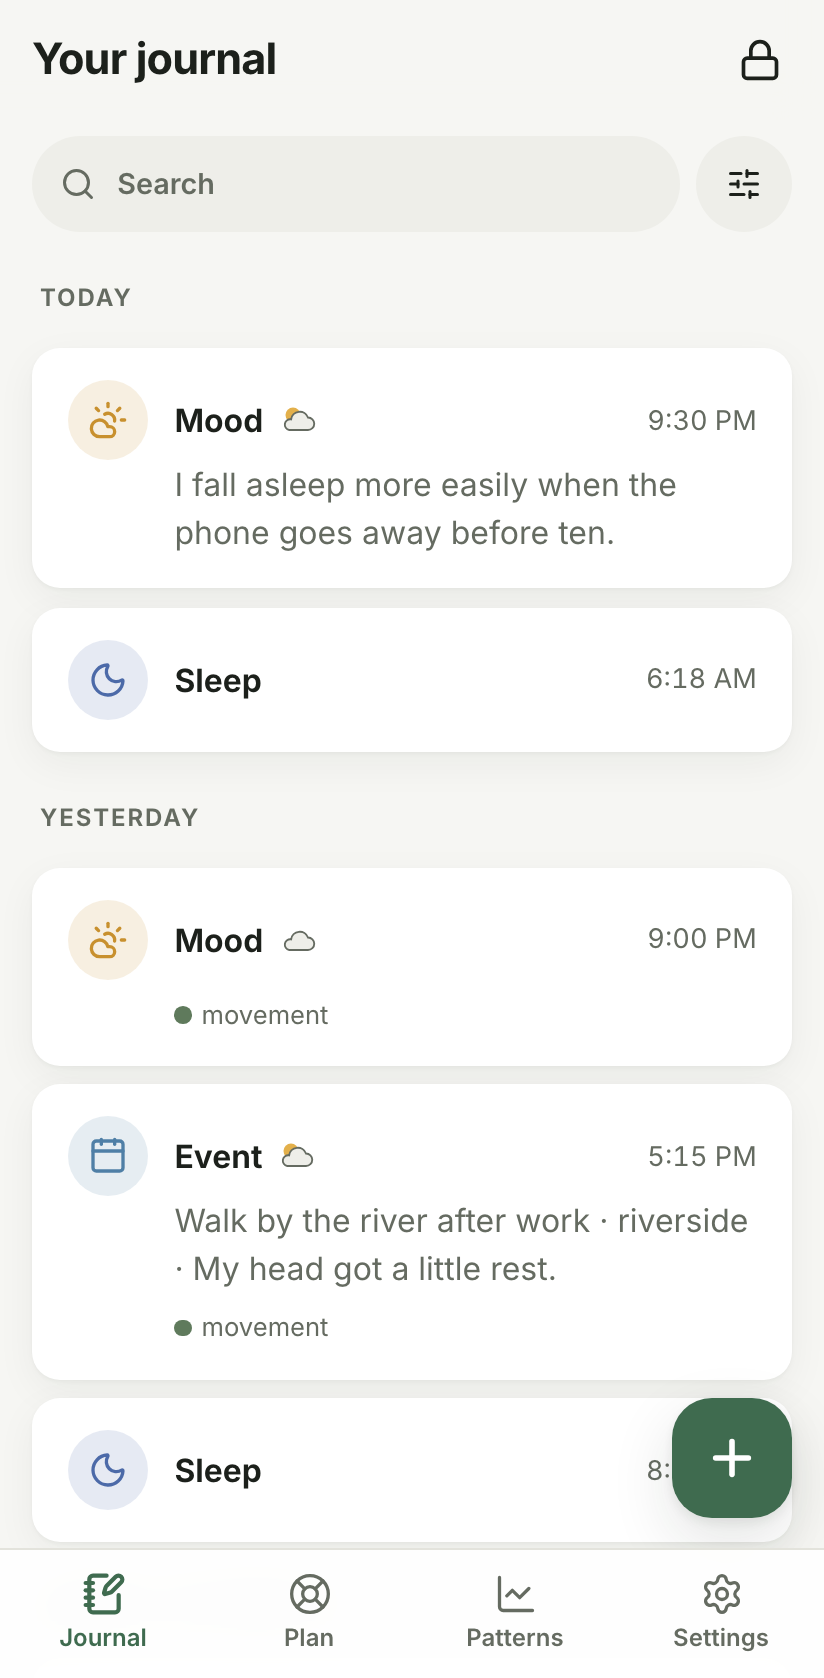
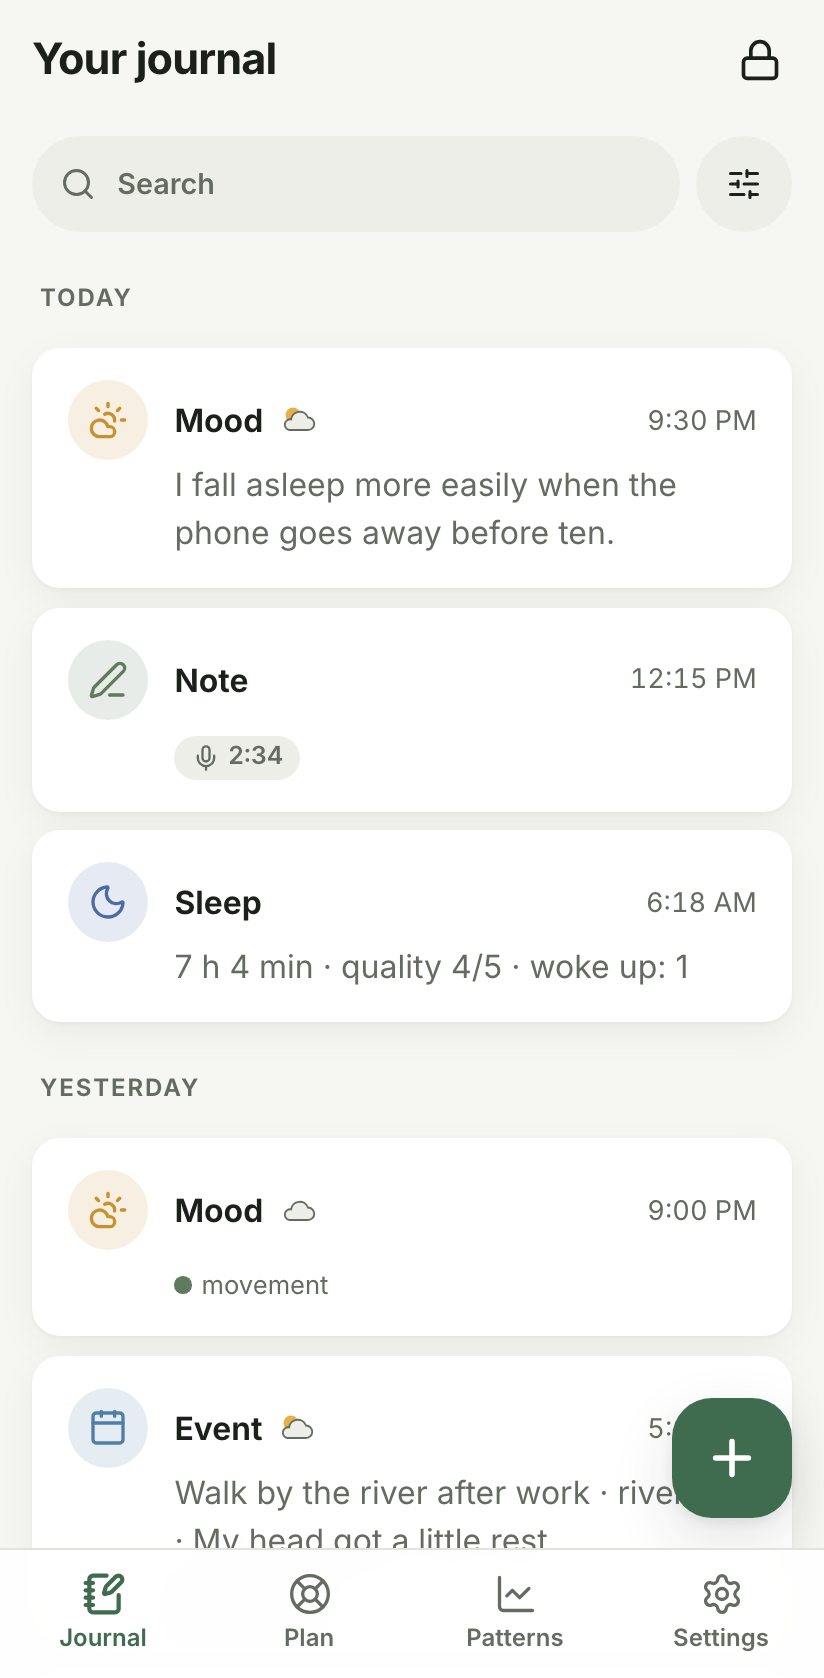
Website: voice notes to text, hidden content, settings paths; new screenshots

diff --git a/site/index.html b/site/index.html
@@ -129,14 +129,44 @@
 						</div>
 					</dl>
 					<p>
-						Czasem łatwiej coś powiedzieć niż napisać. Do każdego wpisu możesz nagrać notatkę
-						głosową, do pięciu minut. Nagrywasz w aplikacji, a nagranie jest szyfrowane jak reszta
-						dziennika.
+						Nowe wpisy pokazują na liście tylko rodzaj i godzinę, dopóki ich nie otworzysz. Gdyby
+						ktoś zerknął Ci przez ramię, nie przeczyta, co piszesz.
 					</p>
 				</div>
 			</section>
 
-			<section class="wrap feature flip" aria-labelledby="wzorce">
+			<section class="wrap feature flip" aria-labelledby="glos">
+				<figure class="shot phone">
+					<picture><source srcset="img/pl-voice-dark.png" media="(prefers-color-scheme: dark)" /><img
+						src="img/pl-voice.png"
+						width="824"
+						height="1678"
+						loading="lazy"
+						alt="Notatka głosowa trwająca 2:34, a pod nią rozpoznany tekst do przeczytania i poprawienia."
+					/></picture>
+				</figure>
+				<div class="text">
+					<p class="label">Notatki głosowe</p>
+					<h2 id="glos">Czasem łatwiej powiedzieć <em>niż napisać.</em></h2>
+					<p>
+						Do każdego wpisu nagrasz do pięciu minut. Nagrywasz w aplikacji, a nagranie jest
+						szyfrowane jak reszta dziennika i nigdy nie trafia do osobnego pliku na urządzeniu.
+					</p>
+					<p>
+						Jeśli chcesz, Mossbook zamieni nagranie na tekst, który przeczytasz, poprawisz i potem
+						znajdziesz w wyszukiwarce. Rozpoznawanie działa na Twoim urządzeniu, po polsku,
+						ukraińsku, angielsku i w innych językach europejskich. Nagrania nigdzie nie są
+						wysyłane.
+					</p>
+					<p class="aside">
+						Domyślnie wyłączone. Żeby włączyć, pobierasz w przeglądarce model rozpoznawania mowy
+						(487 MB) i wskazujesz plik w Ustawieniach → Notatki głosowe. Model to NVIDIA Parakeet
+						(licencja CC BY 4.0) i potrzebuje około 1,5 GB pamięci, gdy pracuje.
+					</p>
+				</div>
+			</section>
+
+			<section class="wrap feature" aria-labelledby="wzorce">
 				<figure class="shot phone">
 					<picture><source srcset="img/pl-patterns-dark.png" media="(prefers-color-scheme: dark)" /><img
 						src="img/pl-patterns.png"
@@ -164,7 +194,7 @@
 				</div>
 			</section>
 
-			<section class="wrap feature" aria-labelledby="trudna-chwila">
+			<section class="wrap feature flip" aria-labelledby="trudna-chwila">
 				<figure class="shot phone">
 					<picture><source srcset="img/pl-lock-dark.png" media="(prefers-color-scheme: dark)" /><img
 						src="img/pl-lock.png"
@@ -228,7 +258,7 @@
 						<li>Zainstaluj Syncthing na telefonie i komputerze i udostępnij między nimi jeden folder.</li>
 						<li>
 							Na urządzeniu, którego hasło chcesz zachować, wybierz ten folder w Ustawieniach →
-							Synchronizacja.
+							Kopie i synchronizacja.
 						</li>
 						<li>
 							Na drugim urządzeniu wybierz ten sam folder i dołącz do dziennika jego hasłem. Wpisy
@@ -255,7 +285,15 @@
 								odrzuca biblioteki, które mogłyby go dodać.<!--android--> Na Androidzie aplikacja nie ma nawet
 								uprawnienia do internetu, a każde wydanie jest pod tym kątem sprawdzane.<!--/android-->
 								Synchronizację między Twoimi urządzeniami robi osobny program, który wybierasz sam;
-								Mossbook tylko zapisuje i czyta zaszyfrowany plik w folderze.
+								Mossbook tylko zapisuje i czyta zaszyfrowany plik w folderze. Model do zamiany
+								nagrań na tekst pobiera Twoja przeglądarka, nie aplikacja.
+							</p>
+							<p>
+								Jeden wyjątek dotyczy budowania aplikacji, nie jej działania. Silnik rozpoznawania
+								mowy to gotowe biblioteki projektu sherpa-onnx, a ich narzędzie budujące potrafi
+								pobrać je z sieci. Nie pozwalamy mu na to: dostaje pliki sprawdzone po sumach
+								kontrolnych zapisanych w repozytorium. Do aplikacji nie trafia z tego żaden kod
+								sieciowy.
 							</p>
 						</li>
 						<li>
@@ -489,6 +527,16 @@
 							Tylko wtedy, gdy sam zaczniesz nagrywać notatkę głosową, i tylko do jej końca. O
 							dostęp system zapyta przy pierwszym nagraniu. Nagranie zostaje w dzienniku,
 							zaszyfrowane, i nigdy nie trafia do osobnego pliku na urządzeniu.
+						</p>
+					</details>
+					<details>
+						<summary>Czy zamiana nagrań na tekst wysyła je gdzieś?</summary>
+						<p>
+							Nie. Rozpoznawanie mowy działa na Twoim urządzeniu (model NVIDIA Parakeet, licencja CC
+							BY 4.0). Model pobierasz sam w przeglądarce, a Mossbook przyjmuje tylko dokładnie ten
+							plik, sprawdzony po sumie kontrolnej. Tekst jest propozycją: czytasz go i poprawiasz,
+							zanim zapiszesz wpis. Potrzeba około 1,5 GB pamięci, więc na telefonach z mniej niż
+							6 GB może się nie udać.
 						</p>
 					</details>
 					<details>

diff --git a/site/en/index.html b/site/en/index.html
@@ -129,14 +129,44 @@
 						</div>
 					</dl>
 					<p>
-						Sometimes saying it is easier than writing it. Any entry can have a voice note of up to
-						five minutes. You record it in the app, and it is encrypted like the rest of the
-						journal.
+						New entries show only their type and time in the list until you open them. If someone
+						glances over your shoulder, they will not read what you wrote.
 					</p>
 				</div>
 			</section>
 
-			<section class="wrap feature flip" aria-labelledby="patterns">
+			<section class="wrap feature flip" aria-labelledby="voice">
+				<figure class="shot phone">
+					<picture><source srcset="../img/en-voice-dark.png" media="(prefers-color-scheme: dark)" /><img
+						src="../img/en-voice.png"
+						width="824"
+						height="1678"
+						loading="lazy"
+						alt="A voice note of 2:34 with the recognised text below it, ready to read and correct."
+					/></picture>
+				</figure>
+				<div class="text">
+					<p class="label">Voice notes</p>
+					<h2 id="voice">Sometimes saying it <em>is easier than writing it.</em></h2>
+					<p>
+						Any entry can have up to five minutes of recording. You record it in the app, it is
+						encrypted like the rest of the journal, and it is never saved as a separate file on
+						the device.
+					</p>
+					<p>
+						If you like, Mossbook turns the recording into text that you read, correct and later
+						find with search. Recognition runs on your device, in English, Polish, Ukrainian and
+						other European languages. Recordings are not sent anywhere.
+					</p>
+					<p class="aside">
+						Off by default. To turn it on, download the speech recognition model in your browser
+						(487 MB) and pick the file in Settings → Voice notes. The model is NVIDIA Parakeet
+						(CC BY 4.0 licence) and needs about 1.5 GB of memory while it works.
+					</p>
+				</div>
+			</section>
+
+			<section class="wrap feature" aria-labelledby="patterns">
 				<figure class="shot phone">
 					<picture><source srcset="../img/en-patterns-dark.png" media="(prefers-color-scheme: dark)" /><img
 						src="../img/en-patterns.png"
@@ -162,7 +192,7 @@
 				</div>
 			</section>
 
-			<section class="wrap feature" aria-labelledby="hard-moment">
+			<section class="wrap feature flip" aria-labelledby="hard-moment">
 				<figure class="shot phone">
 					<picture><source srcset="../img/en-lock-dark.png" media="(prefers-color-scheme: dark)" /><img
 						src="../img/en-lock.png"
@@ -226,7 +256,7 @@
 					<ol class="steps">
 						<li>Install Syncthing on your phone and computer and share one folder between them.</li>
 						<li>
-							On the device whose password you want to keep, choose that folder in Settings → Sync.
+							On the device whose password you want to keep, choose that folder in Settings → Backups and sync.
 						</li>
 						<li>
 							On the other device, choose the same folder and join the journal with its password.
@@ -254,7 +284,14 @@
 								libraries that could add it.<!--android--> On Android the app does not even hold the permission
 								to go online, and every release is checked for it.<!--/android-->
 								Syncing between your devices is done by a separate program you choose; Mossbook
-								only writes and reads an encrypted file in a folder.
+								only writes and reads an encrypted file in a folder. The model for turning
+								recordings into text is downloaded by your browser, not by the app.
+							</p>
+							<p>
+								One exception concerns building the app, not running it. The speech recognition
+								engine is a set of prebuilt libraries from the sherpa-onnx project, and their
+								build tool can download them. We do not let it: it is given files checked against
+								checksums kept in the repository. No networking code ends up in the app.
 							</p>
 						</li>
 						<li>
@@ -487,6 +524,16 @@
 							Only when you start recording a voice note, and only until you stop. The system asks
 							for access on the first recording. The recording stays in the journal, encrypted, and
 							is never saved as a separate file on the device.
+						</p>
+					</details>
+					<details>
+						<summary>Does turning recordings into text send them anywhere?</summary>
+						<p>
+							No. Speech recognition runs on your device (NVIDIA's Parakeet model, CC BY 4.0
+							licence). You download the model yourself in your browser, and Mossbook accepts only
+							that exact file, checked by its checksum. The text is a suggestion: you read and
+							correct it before saving the entry. It needs about 1.5 GB of memory, so on phones with
+							less than 6 GB it may fail.
 						</p>
 					</details>
 					<details>

diff --git a/app/site-shots/shots.spec.ts b/app/site-shots/shots.spec.ts
@@ -25,6 +25,8 @@ const TEXT = {
 			['Spacer nad rzeką po pracy', 'bulwary', 'Głowa trochę odpoczęła.'],
 			['Pierwszy trening od miesiąca', 'basen', 'Zmęczenie, ale dobre.']
 		],
+		voice:
+			'Rano ciężko było wstać, ale po spacerze z psem zrobiło się lżej. Zadzwoniłam do siostry i umówiłyśmy się na sobotę. Wieczorem chcę spróbować zasnąć przed jedenastą.',
 		notes: [
 			'Zasypiam łatwiej, kiedy odkładam telefon przed dziesiątą.',
 			'Dzień bez planu. Trochę czytania i długi obiad.',
@@ -41,6 +43,8 @@ const TEXT = {
 			['Walk by the river after work', 'riverside', 'My head got a little rest.'],
 			['First swim in a month', 'pool', 'Tired, the good kind.']
 		],
+		voice:
+			'It was hard to get up this morning, but the walk with the dog made it lighter. I called my sister and we made plans for Saturday. Tonight I want to try to fall asleep before eleven.',
 		notes: [
 			'I fall asleep more easily when the phone goes away before ten.',
 			'A day with no plans. Some reading and a long lunch.',
@@ -147,6 +151,17 @@ function journal(lang: Lang) {
 			});
 		}
 	}
+	// A voice note turned into text (E-19), opened for the website's screenshot.
+	add(at(0, 12), {
+		id: 'site-voice',
+		kind: 'note',
+		voice: {
+			id: 'site-voice-recording',
+			duration_ms: 154_000,
+			mime: 'audio/ogg; codecs=opus',
+			transcript: text.voice
+		}
+	});
 	return { tags, entries };
 }
 
@@ -215,6 +230,16 @@ for (const lang of ['pl', 'en'] as const) {
 				await page.locator('body').click({ position: { x: 5, y: 5 } });
 				await page.evaluate(() => window.scrollTo(0, 0));
 				await shot(page, name('entry'));
+
+				await page.goto('/entry/site-voice');
+				await page.getByRole('heading', { level: 1 }).waitFor();
+				const voice = page.getByRole('region', {
+					name: lang === 'pl' ? 'Notatka głosowa' : 'Voice note'
+				});
+				// The recording and its text at the top, with the mood above for context.
+				await voice.evaluate((el) => el.scrollIntoView({ block: 'start' }));
+				await page.evaluate(() => window.scrollBy(0, -330));
+				await shot(page, name('voice'));
 
 				await page.goto('/patterns');
 				await page.getByRole('heading', { level: 1 }).waitFor();

diff --git a/docs/PLAN.md b/docs/PLAN.md
@@ -181,7 +181,7 @@ Resumed 2026-10-21 (postponed on 2026-10-19 while the tools were missing).
 - [x] Tauri: `transcription_status`, `transcription_open_download`, `transcription_import`, `transcription_remove`, `transcription_cancel`, `voice_transcribe`; one job at a time; a job never holds the session; a lock seen between pieces cancels it and drops the text; progress as an event with counts only; total memory from `/proc/meminfo` (Android, Linux) for the warning under 5 GiB
 - [x] UI: Settings → Turning recordings into text (off by default; explanation, sizes, memory warning, download in the browser, import with progress and cancel, remove with confirmation, model credit); "Turn into text" next to a recording where the model is imported, progress and stop, an editable transcript with a note that it may contain mistakes, a message when no words were recognised; pl/en/uk; e2e with the fake backend
 - [x] Docs: SPEC E-19 and principle 1, threat model, SECURITY.md, README (how to turn it on, what it means for "zero network", build prerequisites), `backup-format.md`, `crypto.md`, `architecture.md`, CHANGELOG
-- [ ] Website (pl/en) at the next release, like voice notes: the feature, the build-time exception in "Nie łączy się z internetem", an FAQ entry
+- [x] Website (pl/en) after 0.5.0 was published: a section on voice notes and transcription with a new screenshot, the build-time exception under "Nie łączy się z internetem", an FAQ entry, hidden content by default, settings paths; all screenshots regenerated
 - [x] CI green for `0f768a6`: Rust tests on Linux, desktop builds on Ubuntu 24.04, Windows (static MT libraries link) and macOS arm64, the arm64 APK with the extended checks
 - [x] Three-ABI Android APK built locally (2026-10-23): ARMv7 caught a 32-bit `usize` overflow in the sample limit (fixed, with a test). Native libraries are now compressed in the APK (`useLegacyPackaging`, the user's choice over per-ABI APKs): universal APK 46 MB instead of ~100 MB stored (31 MB in 0.4.0), unpacked on install. Checks pass; on the arm64 emulator the app starts with ONNX Runtime and the sherpa-onnx C API loaded
 - [x] `v0.5.0-rc.2` (2026-10-23): every release build passes (Linux on ubuntu-22.04, Windows, macOS arm64 and x86_64, the signed three-ABI APK). rc.1 lost its APK: CI restored a cached build whose sherpa-onnx build script had already run but not the folder it unpacked into, so `tools/fetch-sherpa-onnx.sh` now unpacks the archives itself

diff --git a/README.md b/README.md
@@ -35,7 +35,7 @@ for your system. The site has no cookies, analytics or third-party resources.
 ## Status
 
 **0.1 is out for desktop** (Linux, Windows, macOS). It is early software: keep a
-backup (Settings → Backup).
+backup (Settings → Backups and sync).
 
 - **Done:** every desktop feature of the MVP, and from v1 the PDF report, nightmares,
   difficult content, the mood calendar, overviews, and quick entry while locked.
@@ -120,9 +120,9 @@ carries that folder between your phone and your computer.
 1. Install Syncthing on both devices and share one folder between them, for example
    `MossbookSync`.
 2. On the device whose journal you want to keep (its password and 24-word recovery key
-   stay), open Settings → Sync → *Choose folder* and pick that folder.
+   stay), open Settings → Backups and sync → *Choose folder* and pick that folder.
 3. Wait until Syncthing has copied its file to the other device. There, choose the same
-   folder in Settings → Sync. Mossbook finds the other journal and offers to join it:
+   folder in Settings → Backups and sync. Mossbook finds the other journal and offers to join it:
    type **that** journal's password. The entries of this device are added to it, and
    from then on both devices have the same journal, password and recovery key. The
    journal this device had before is kept in its automatic backups.
@@ -140,7 +140,7 @@ Optional and off by default. Recognition runs on your device with NVIDIA's Parak
 model (Polish, Ukrainian, English and other European languages); recordings are never
 sent anywhere.
 
-1. Settings → *Turning recordings into text* → *Open the download page*. Your browser
+1. Settings → Voice notes → *Open the download page*. Your browser
    downloads the model (`sherpa-onnx-nemo-parakeet-tdt-0.6b-v3-int8.tar.bz2`, 487 MB).
    Mossbook itself downloads nothing.
 2. *Pick the downloaded file*. Mossbook accepts only that exact file (checked by its

diff --git a/CHANGELOG.md b/CHANGELOG.md
@@ -6,7 +6,7 @@ All notable changes to Mossbook. Versions follow [Semantic Versioning](https://s
 
 ### Added
 - Voice notes can be turned into text, on your device. Off by default: in
-  Settings → Turning recordings into text, open the download page, let your browser
+  Settings → Voice notes, open the download page, let your browser
   download the speech recognition model (487 MB) and pick the file; Mossbook checks
   that it is exactly that file and unpacks it (about 670 MB). Then a voice note in
   an entry has a "Turn into text" button. The text is shown for you to read and
